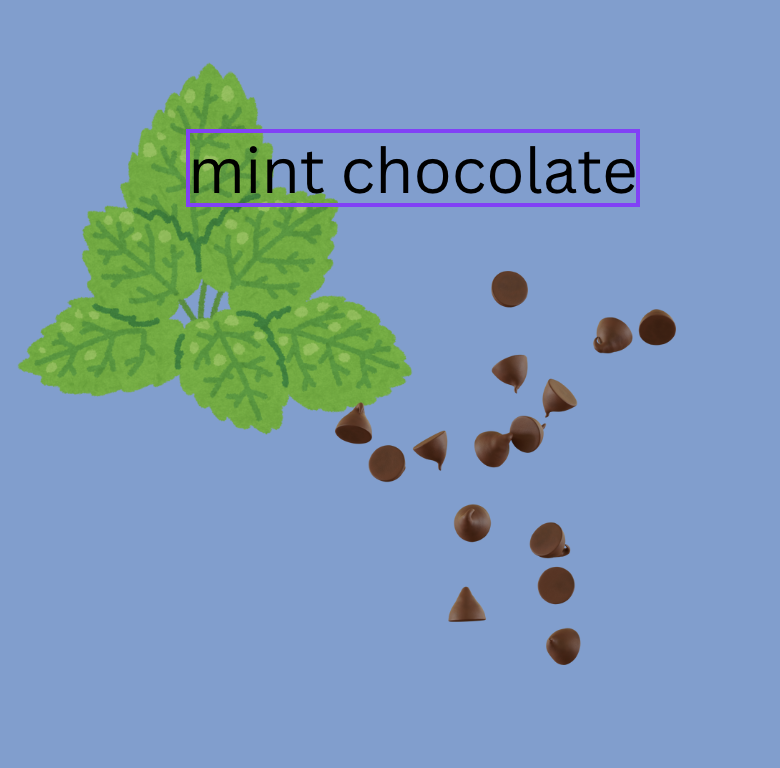
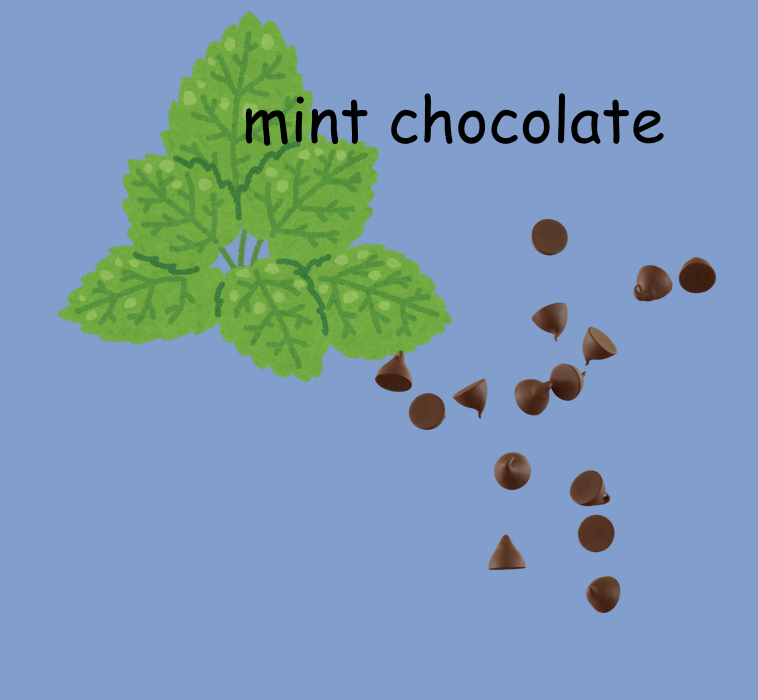
comic sans

diff --git a/home.html b/home.html
@@ -22,7 +22,7 @@
 <h1>this is just filler so when we are able to flesh it out more it'll be better</h1>
 
 <a href="shop.html" class="sales-button">
-    <img src="img1.jpg" alt="filler image 1"/>
+    <img src="img1.png" alt="filler image 1"/>
 </a>
 <a href="about.html" class="about-button">
     <img src="img2.png" alt="filler image 2"/>
